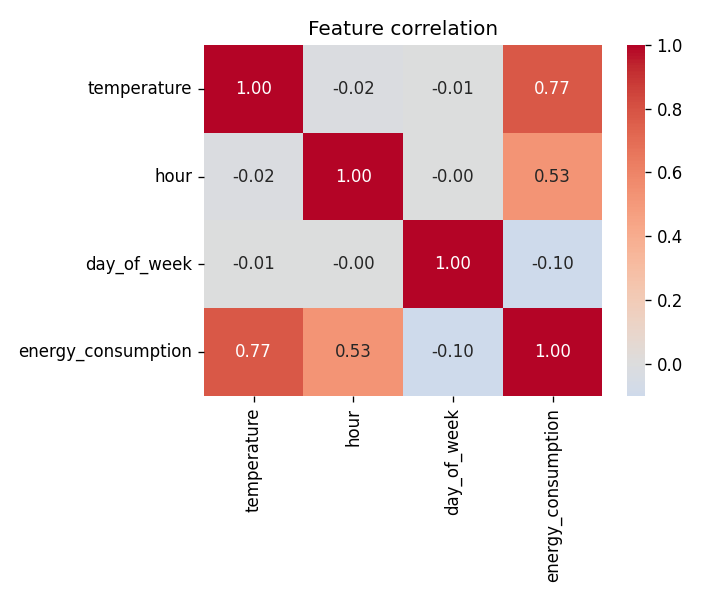
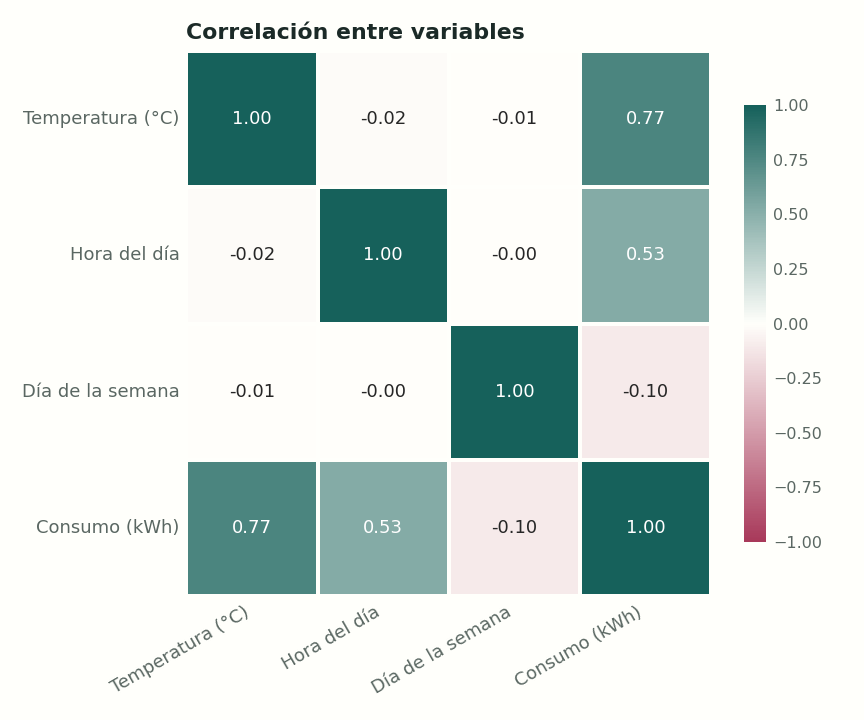
style(report): theme figures to match the web UI palette.
Matplotlib helpers use DESIGN.md colors and Spanish labels; PNGs are
regenerated for the predictor relations panel.

diff --git a/src/arepa/visualization.py b/src/arepa/visualization.py
@@ -1,4 +1,7 @@
-"""Plotting helpers for EDA and report figures."""
+"""Plotting helpers for EDA and report figures.
+
+Colors mirror frontend/DESIGN.md so the figures sit naturally inside the web UI.
+"""
 
 from __future__ import annotations
 
@@ -7,6 +10,51 @@ from pathlib import Path
 import matplotlib.pyplot as plt
 import pandas as pd
 import seaborn as sns
+from matplotlib.colors import LinearSegmentedColormap
+
+INK = "#1B2A27"
+AXIS = "#5A6762"
+GRID = "#DEDDD1"
+SURFACE = "#FFFFFB"
+POINT = "#16615B"
+LINE = "#C98A0B"
+MORA = "#A8395A"
+
+LABELS = {
+    "day": "Día",
+    "inflation_rate": "Inflación diaria",
+    "interest_rate": "Tasa de interés (%)",
+    "dollar_price": "Precio del dólar",
+    "age": "Edad (años)",
+    "bmi": "IMC",
+    "physical_activity_hours": "Actividad física (h/semana)",
+    "glucose_level": "Glucosa (mg/dL)",
+    "temperature": "Temperatura (°C)",
+    "hour": "Hora del día",
+    "day_of_week": "Día de la semana",
+    "energy_consumption": "Consumo (kWh)",
+}
+
+CORRELATION_CMAP = LinearSegmentedColormap.from_list("arepa", [MORA, SURFACE, POINT])
+
+
+def _label(column: str) -> str:
+    return LABELS.get(column, column)
+
+
+def _style(fig: plt.Figure, ax: plt.Axes) -> None:
+    fig.patch.set_facecolor(SURFACE)
+    ax.set_facecolor(SURFACE)
+    for side in ("top", "right"):
+        ax.spines[side].set_visible(False)
+    for side in ("left", "bottom"):
+        ax.spines[side].set_color(GRID)
+    ax.tick_params(colors=AXIS, labelsize=9)
+    ax.xaxis.label.set_color(AXIS)
+    ax.yaxis.label.set_color(AXIS)
+    ax.title.set_color(INK)
+    ax.grid(color=GRID, linewidth=0.6, alpha=0.7)
+    ax.set_axisbelow(True)
 
 
 def plot_feature_relationship(
@@ -16,24 +64,54 @@ def plot_feature_relationship(
     save_path: Path | None = None,
 ) -> None:
     fig, ax = plt.subplots(figsize=(7, 4))
-    sns.regplot(data=df, x=feature, y=target, scatter_kws={"alpha": 0.35, "s": 18}, ax=ax)
-    ax.set_title(f"{target} vs {feature}")
+    _style(fig, ax)
+    sns.regplot(
+        data=df,
+        x=feature,
+        y=target,
+        scatter_kws={"alpha": 0.22, "s": 14, "color": POINT, "edgecolors": "none"},
+        line_kws={"color": LINE, "linewidth": 2.4},
+        ax=ax,
+    )
+    ax.set_xlabel(_label(feature))
+    ax.set_ylabel(_label(target))
+    ax.set_title(f"{_label(target)} vs. {_label(feature)}", loc="left", fontsize=11, fontweight="semibold", color=INK)
     fig.tight_layout()
     if save_path:
         save_path.parent.mkdir(parents=True, exist_ok=True)
-        fig.savefig(save_path, dpi=120)
+        fig.savefig(save_path, dpi=144, facecolor=SURFACE)
     plt.close(fig)
 
 
 def plot_correlation_heatmap(df: pd.DataFrame, columns: list[str], save_path: Path | None = None) -> None:
-    corr = df[columns].corr()
+    corr = df[columns].corr().rename(index=_label, columns=_label)
     fig, ax = plt.subplots(figsize=(6, 5))
-    sns.heatmap(corr, annot=True, fmt=".2f", cmap="coolwarm", center=0, ax=ax)
-    ax.set_title("Feature correlation")
+    _style(fig, ax)
+    ax.grid(False)
+    sns.heatmap(
+        corr,
+        annot=True,
+        fmt=".2f",
+        cmap=CORRELATION_CMAP,
+        vmin=-1,
+        vmax=1,
+        center=0,
+        linewidths=2,
+        linecolor=SURFACE,
+        annot_kws={"fontsize": 9},
+        cbar_kws={"shrink": 0.8},
+        ax=ax,
+    )
+    ax.set_title("Correlación entre variables", loc="left", fontsize=11, fontweight="semibold", color=INK)
+    ax.tick_params(length=0)
+    plt.setp(ax.get_xticklabels(), rotation=30, ha="right")
+    colorbar = ax.collections[0].colorbar
+    colorbar.outline.set_visible(False)
+    colorbar.ax.tick_params(colors=AXIS, labelsize=8, length=0)
     fig.tight_layout()
     if save_path:
         save_path.parent.mkdir(parents=True, exist_ok=True)
-        fig.savefig(save_path, dpi=120)
+        fig.savefig(save_path, dpi=144, facecolor=SURFACE)
     plt.close(fig)
 
 
